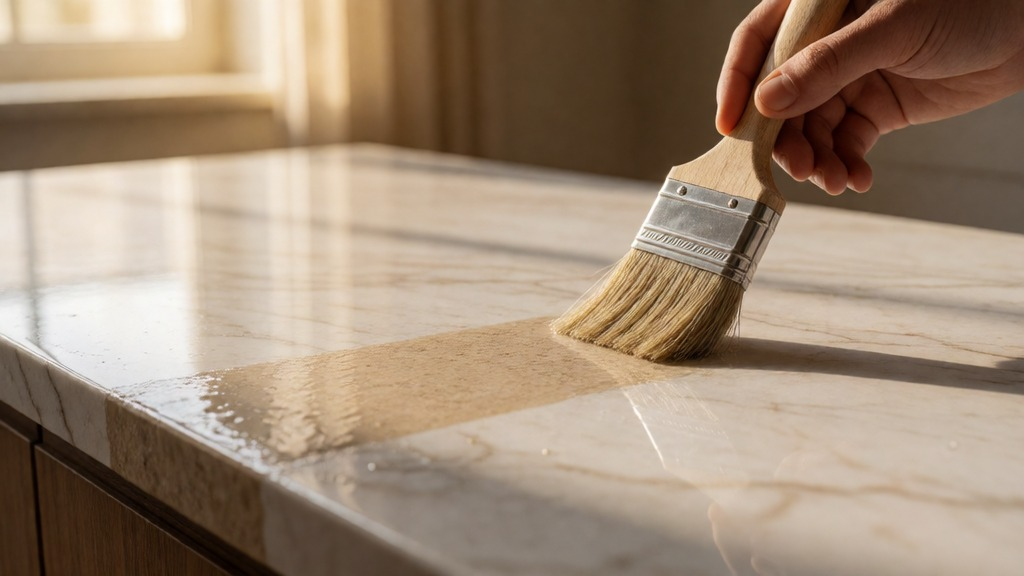
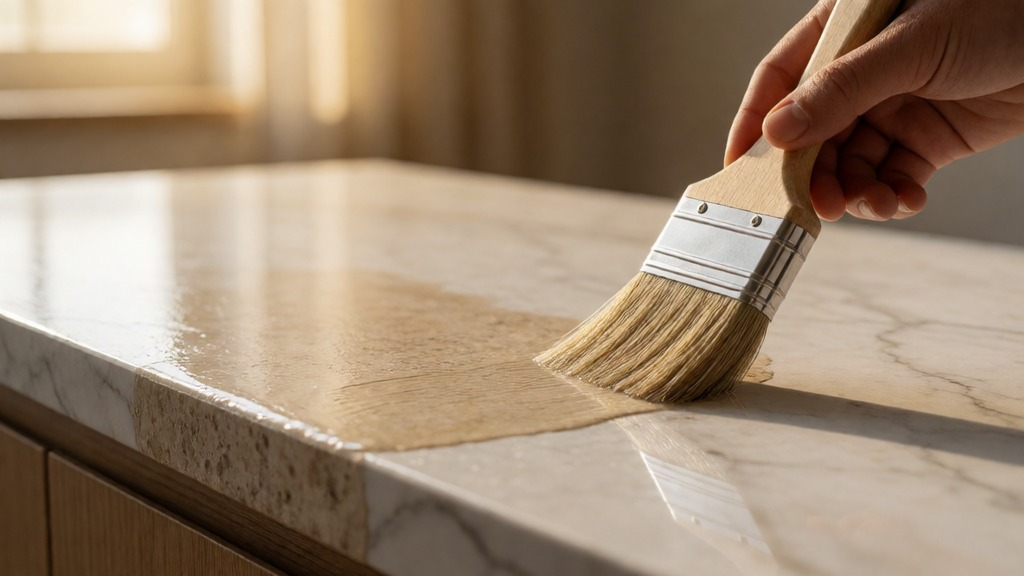
feat(blog): مقال SEO جديد (2026-11-09)

diff --git a/src/data/blog.js b/src/data/blog.js
@@ -8669,6 +8669,82 @@ export const POSTS = [
       'bianco-carrara-marble',
     ],
   },
+
+  {
+    slug: 'stone-countertop-sealing-guide-medina',
+    title: 'عزل أسطح الحجر (Sealing) في المدينة المنورة: دليل شامل',
+    image: '/images/blog-ai/stone-countertop-sealing-guide-medina.jpg',
+    imageAlt: 'تطبيق مانع تسرب على سطح رخام بفرشاة في ضوء داخلي دافئ',
+    takeaways: [
+      'العزل (sealing) يمنع امتصاص السوائل والبقع',
+      'جرانيت المطبخ يحتاج عزلاً كل 1-2 سنة',
+      'الرخام (marble) يحتاج عزلاً متكرراً بسبب مساميته',
+      'استخدم مانع تسرب (penetrating sealer) وليس طلاء',
+    ],
+    excerpt: 'كيف تختار مانع التسرب (sealer) المناسب لرخامك وجرانيتك في مناخ المدينة المنورة، ومتى تعيد العزل.',
+    category: 'دليل الصيانة',
+    date: '2026-11-09',
+    readTime: '4 دقائق',
+    sections: [
+      {
+        h: 'لماذا يحتاج عزل',
+        p: [
+          'الحجر الطبيعي يحتوي مساماً يمتص السوائل',
+          'Sealing closes pores without changing appearance',
+          'Unsealed stone stains permanently from oil, wine, acid',
+        ],
+      },
+      {
+        h: 'أنواع مانع التسرب',
+        p: [
+          'Penetrating sealer: absorbs into stone, invisible',
+          'Coating sealer: forms film on surface, changes look',
+          'Impregnating: best for kitchen countertops',
+        ],
+      },
+      {
+        h: 'متى تعيد العزل',
+        p: [
+          'Water test: drop water, if it darkens, re-seal',
+          'Kitchen granite: every 1-2 years',
+          'Bathroom marble: every 6-12 months',
+          'Outdoor stone: annually',
+        ],
+      },
+      {
+        h: 'أخطاء شائعة',
+        p: [
+          'Over-sealing: causes hazing',
+          'Using wrong sealer for stone type',
+          'Not cleaning before sealing',
+          'Sealing polished stone that doesn\'t need it',
+        ],
+      },
+    ],
+    faq: [
+      {
+        q: 'هل كل الحجر يحتاج عزل?',
+        a: 'لا — الجرانيت (granite) كثيف قد لا يحتاج، لكن الرخام والترافرتينو والحجر الجيري يحتاج',
+      },
+      {
+        q: 'كم تكلفة عزل أسطح الحجر?',
+        a: '10-30 ريال/م² حسب نوع الحجر وجودة مانع التسرب',
+      },
+      {
+        q: 'هل عزل يغير لون الحجر?',
+        a: 'Penetrating sealer no. Coating sealer may darken slightly.',
+      },
+      {
+        q: 'متى أطبق عزل بعد تركيب?',
+        a: 'After installation cures (24-48 hours), before use.',
+      },
+    ],
+    related: [
+      'majli-mushawa',
+      'crema-marfil-classic',
+      'bianco-carrara-marble',
+    ],
+  },
 ];
 
 export default POSTS;
